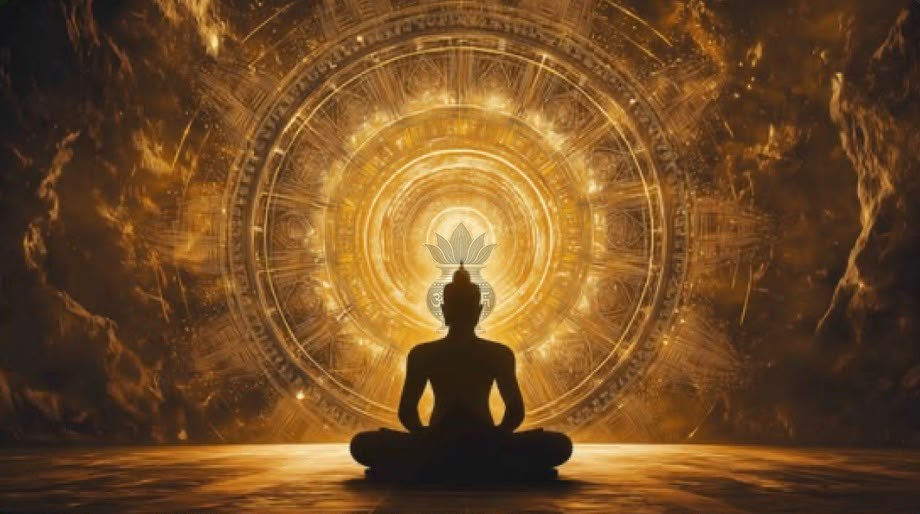
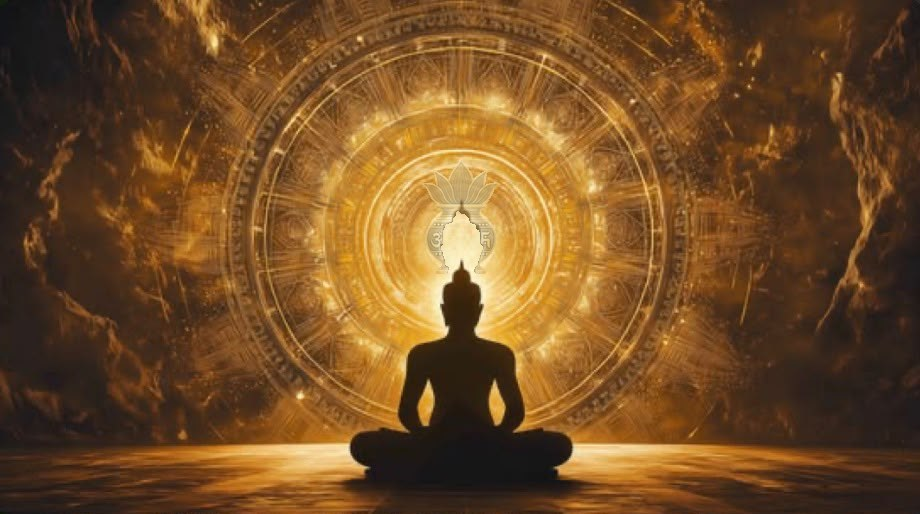
Raise Kalash slightly above the Buddha head in the hero.
Repositions the sacred Kalash emblem upward so it sits just over the
ushnisha instead of overlapping it, and bumps the hero cache version.

Changed region(s): [[0.4565, 0.3113, 0.5478, 0.6537]]

diff --git a/index.html b/index.html
@@ -9,7 +9,7 @@
     />
     <meta http-equiv="Cache-Control" content="no-cache, no-store, must-revalidate" />
     <title>Daiva Swasti</title>
-    <link rel="stylesheet" href="styles.css?v=20" />
+    <link rel="stylesheet" href="styles.css?v=21" />
   </head>
   <body>
     <header class="site-header">
@@ -34,7 +34,7 @@
       <section class="hero" aria-label="Hero">
         <img
           class="hero-image"
-          src="assets/hero-temple.jpg?v=20"
+          src="assets/hero-temple.jpg?v=21"
           alt="Meditating Buddha with sacred Kalash behind the silhouette"
         />
         <div class="hero-overlay">
